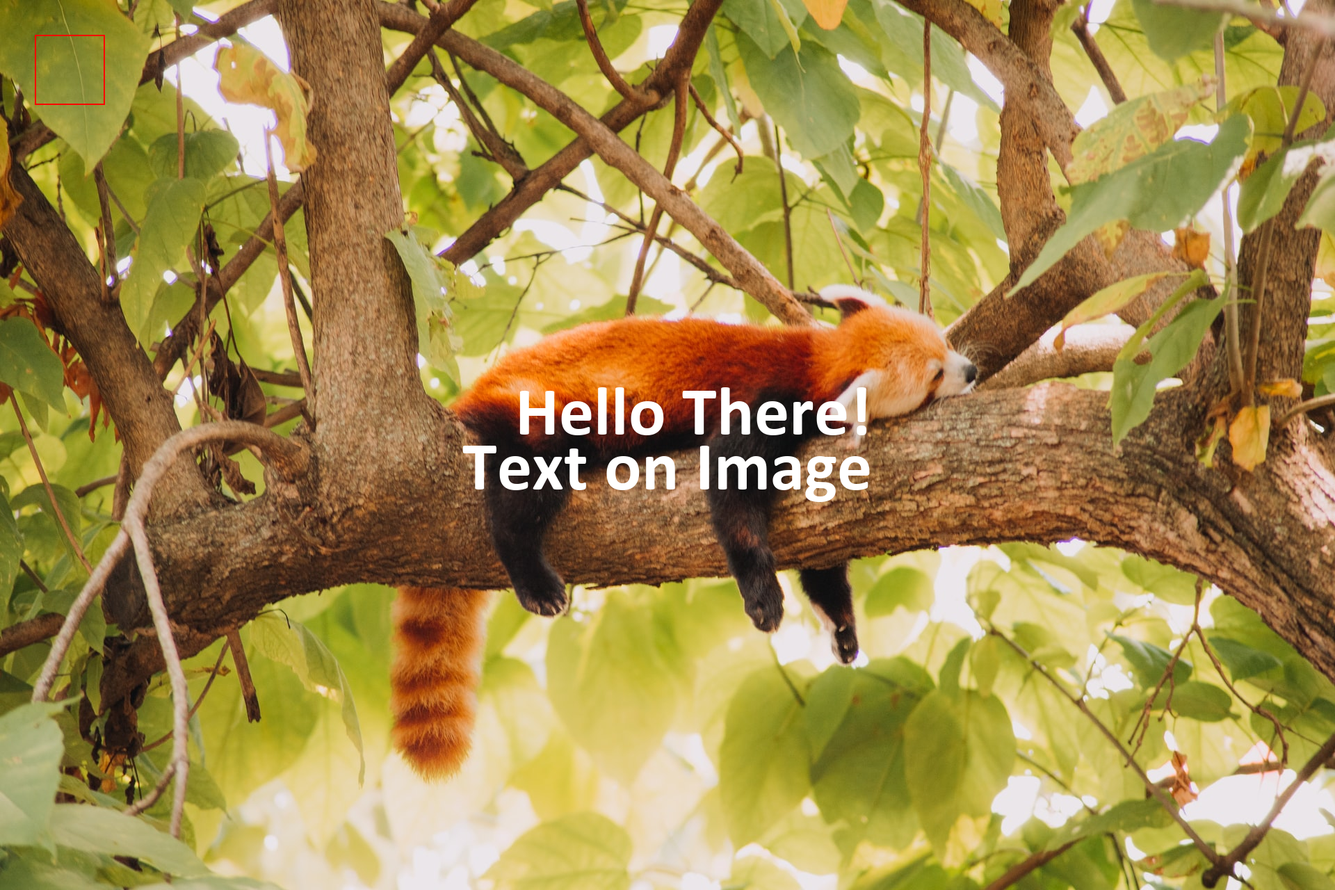
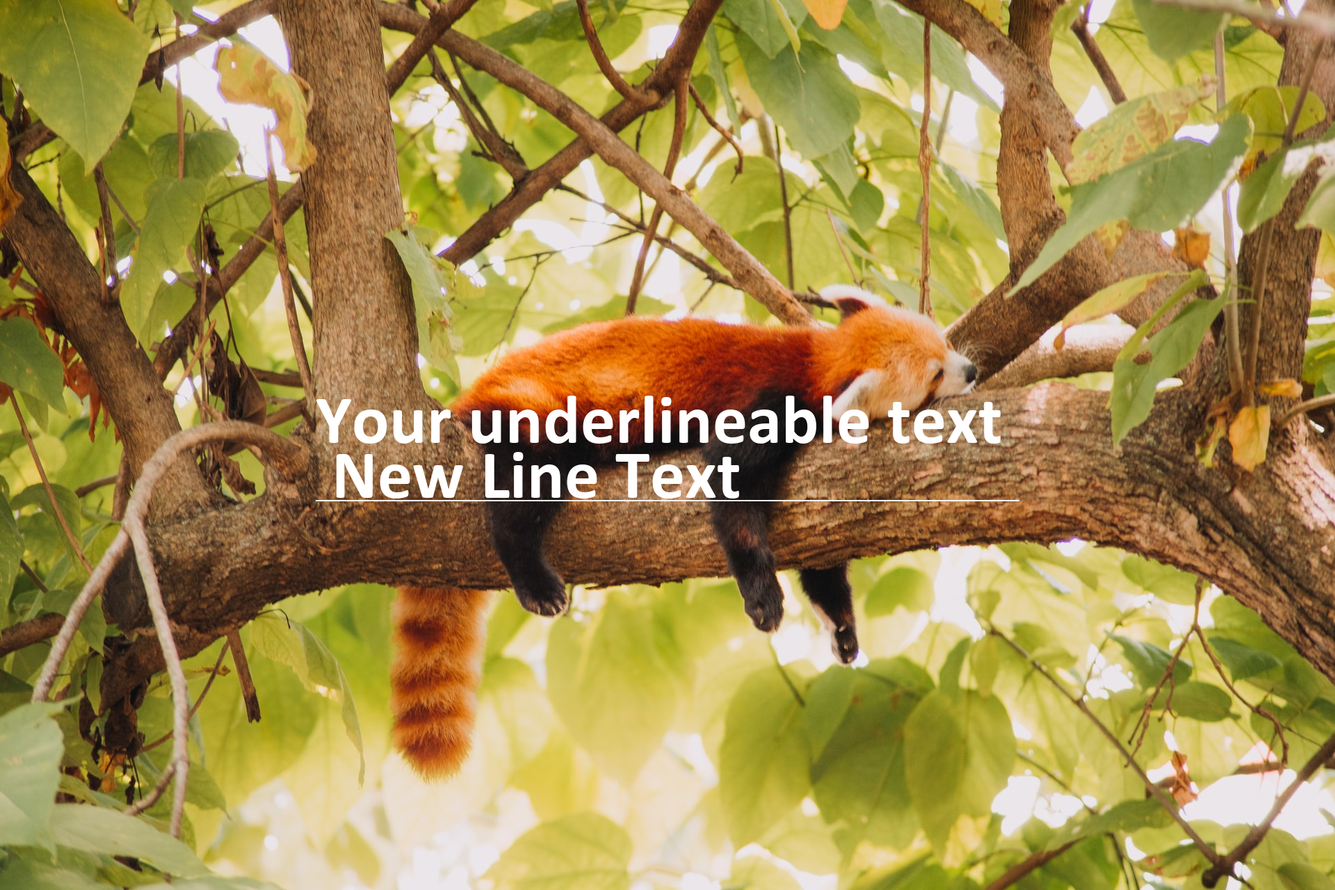
Strike Through File added

Changed region(s): [[0.2188, 0.4375, 0.75, 0.5625]]

diff --git a/image.py b/image.py
@@ -1,4 +1,4 @@
-from PIL import Image, ImageDraw, ImageFont
+from PIL import Image, ImageDraw, ImageFont, ImageFilter
 
 img = Image.open("./picture.jpg")
 
@@ -8,13 +8,13 @@ img = Image.open("./picture.jpg")
 #     draw.line((0, img.size[0], img.size[1], 0), fill=color, width=width)
 #     return img
 
-draw = ImageDraw.Draw(img)
+# draw = ImageDraw.Draw(img)
 
-font = ImageFont.truetype("./Calibri/calibrib.ttf", 100)
+# font = ImageFont.truetype("./Calibri/calibrib.ttf", 100)
 
-W, H  = img.size
+# W, H  = img.size
 
-message = "Hello There!\nText on Image"
+# message = "Hello There!\nText on Image"
 
 # w, h = draw.textbbox((0, 0), message, font=font)
 
@@ -22,13 +22,46 @@ message = "Hello There!\nText on Image"
 # print(w, h)
 
 
-topleft = (100, 100)
-bottomright = (250, 250)
+# topleft = (100, 100)
+# bottomright = (250, 250)
 # draw.arc((W/2-350, H/2-350, W/2 + 350, H/2 + 350), 90, 270, fill="red", width=20)
-draw.rectangle(topleft, bottomright, outline="red", width=2)
-draw.text(
-    (W/2, H/2), 
-    message, font=font, fill="White", align='right', anchor="mm"
-    )
+# draw.rectangle(topleft, bottomright, outline="red", width=2)
+# draw.text(
+#     (W/2, H/2), 
+#     message, font=font, fill="White", align='right', anchor="mm"
+#     )
 
-img.save("text.png")
+# blurred = Image.new('RGBA', img.size)
+# draw = ImageDraw.Draw(blurred)
+# xdrop = 0
+# ydrop = -10
+# blurRatio = 10
+# draw.text(xy=(W/2 - xdrop, H/2 - ydrop), text=message, fill='white', font=font, anchor='mm')
+# blurred = blurred.filter(ImageFilter.BoxBlur(blurRatio))
+
+# img.paste(blurred, blurred)
+
+# draw = ImageDraw.Draw(img)
+# draw.text(xy=(W/2, H/2), text=message, fill='black', font=font, anchor='mm')
+
+# ------------------------------------------------------------------------------------
+
+# text = "Your underlineable text \n New Line Text"
+
+# _, _, text_width, text_height = draw.textbbox((0, 0), text=text, font=font)
+# horizontal_margin = (W - text_width) // 2
+# vertical_margin = (H - text_height) // 2
+
+# lines = text.splitlines()
+# max_width = max(draw.textbbox(text=line, xy=(0, 0), font=font)[2] for line in lines)
+
+# underline_y = vertical_margin + 2
+# for line in lines:
+#     line_width = draw.textbbox(text=line, xy=(0, 0), font=font)[2]
+#     x_start = horizontal_margin + (max_width - line_width) // 2
+#     draw.line((x_start, underline_y, x_start + line_width, underline_y), fill="white", width=2)
+#     underline_y += draw.textbbox(text=line, xy=(0, 0), font=font)[3]  # Add the height of the line
+
+# draw.text((horizontal_margin, vertical_margin), text, fill="white", font=font)
+
+# img.save("text.png")

diff --git a/strikethrough.py b/strikethrough.py
@@ -1,0 +1,11 @@
+from PIL import Image, ImageDraw, ImageFont, ImageFilter
+
+img = Image.open("./picture.jpg")
+
+draw = ImageDraw.Draw(img)
+
+font = ImageFont.truetype("./Calibri/calibrib.ttf", 100)
+
+W, H  = img.size
+
+message = "Hello There!\nText on Image"
